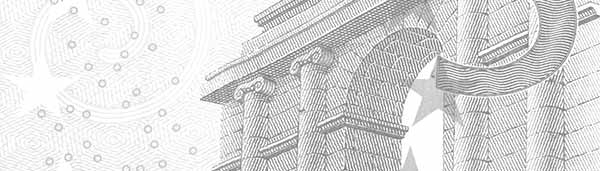
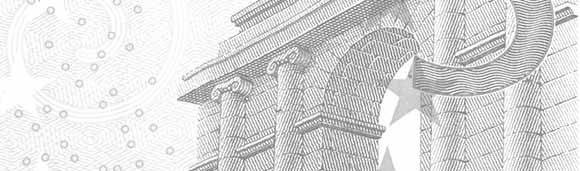
Optimising

diff --git a/src/public/w/css/home.css b/src/public/w/css/home.css
@@ -1,1 +1,1 @@
[2 lines of base64/hex data omitted]

diff --git a/src/compass_web/sass/home.scss b/src/compass_web/sass/home.scss
@@ -60,8 +60,10 @@
 .outbound:hover, .outbound:focus{top:10px; border-width:18px;}
 .box-play{position:relative; top:-115px; text-align:center;}
 .box-play .txt{position:absolute; left:-9999px; top:-9999px;}
-.win-millions{margin-top:-46px; text-align:center;}
-.win-millions .pic{margin:auto; width:417px;}
+.win-millions{
+  margin-top:-46px; text-align:center;
+  .vector{height:68px; width:83%; margin-top:33px}
+}
 .box-play .h2{text-shadow:0 0 1px rgba(0, 0, 0, .5);}
 .box-play .content{margin-top:125px; color:#fff;}
 .box-play .ico{position:relative; top:2px;}
@@ -168,7 +170,6 @@
 .box-estimated h1{font-size:1.2em;}
 .outbound{width:430px; height:430px; border:15px solid #fff;}
 .outbound:hover, .outbound:focus{border-width:13px;}
-.win-millions .pic{width:350px;}
 .box-play{top:-90px;}
 .box-play .content{margin-top:95px;}
 .box-estimated .value.maxChar{font-size:3.175em;}
@@ -192,7 +193,6 @@
 .outbound{width:330px; height:330px; border:10px solid #fff;}
 .outbound:hover, .outbound:focus{border-width:13px;}
 .win-millions{margin-top:-35px;}
-.win-millions .pic{width:280px;}
 .box-play .content{margin-top:85px;}
 .box-play .box-ball{margin-top:10px;}
 .box-play .btn{left:0; font-size:$h2;}
